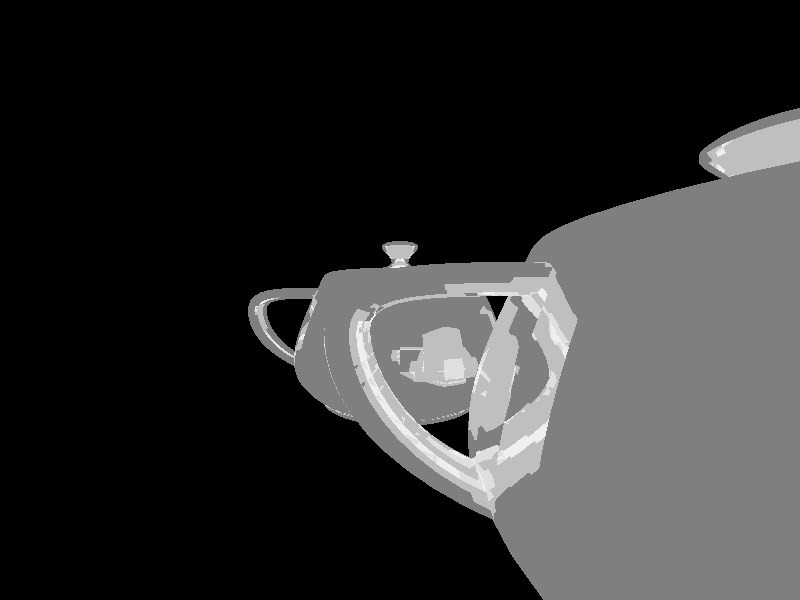
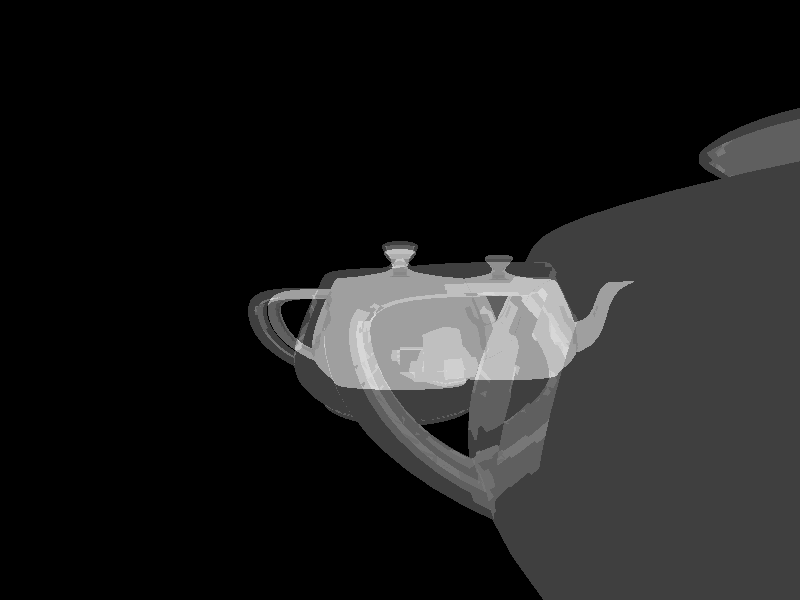
please run this

diff --git a/RayTracerReflectionsMultiTeapot.java b/RayTracerReflectionsMultiTeapot.java
@@ -256,15 +256,15 @@ class RenderTask implements Runnable {
                 screenX *= aspectRatio;
 
                 Vector3 rayDirection = new Vector3(screenX, screenY, -1).normalize();
-                // Vector3 ray2Direction = going the opposite direction as the first ray?
+                Vector3 ray2Direction = new Vector3(screenX, screenY, 5).normalize();
                 Ray ray = new Ray(camera.position, rayDirection);
-                // Ray ray2 = new Ray with position the same as the camera position but with some negative z, and ray2Direction as direction?
+                Ray ray2 = new Ray(camera.position.subtract(new Vector3(0,0,40)), ray2Direction);
 
                 Color color = traceRay(ray, scene, 0); // Recursion depth
-                // Color color2 = trace shadow ray... new method or maybe we use the same method but use the color differently?
+                Color color2 = traceShadowRay(ray2, scene, 0);
                 synchronized (image) {
-                    image.setRGB(x, y, color.getRGB());
-                    // we have to change the color.getRGB above to something that takes input from both normal and shadow ray
+                    int avgBlue = color.getBlue() / 2 + color2.getBlue() / 2;
+                    image.setRGB(x, y, new Color(avgBlue, avgBlue, avgBlue).getRGB());
                 }
             }
         }
@@ -298,6 +298,40 @@ class RenderTask implements Runnable {
             int b = (int) (0.5 * reflectedColor.getBlue() + 0.5 * 255);
 
             return new Color(Math.min(r, 255), Math.min(g, 255), Math.min(b, 255));
+        }
+        else
+        {
+            return new Color(0, 0, 0); // background color
+        }
+    }
+
+    private static Color traceShadowRay(Ray ray, Scene scene, int depth) {
+        if (depth > MAX_REFLECTION_DEPTH) {
+            return new Color(0, 0, 0); // return black for maximum recursion depth
+        }
+
+        Intersection closestIntersection = null;
+        for (Face face : scene.faces) {
+            Vector3 v0 = scene.vertices.get(face.vertices[0]);
+            Vector3 v1 = scene.vertices.get(face.vertices[1]);
+            Vector3 v2 = scene.vertices.get(face.vertices[2]);
+
+            Intersection intersection = RayTracer.intersectRayTriangle(ray, v0, v1, v2);
+            if (intersection.hit && (closestIntersection == null || intersection.distance < closestIntersection.distance)) {
+                closestIntersection = intersection;
+            }
+        }
+
+        if (closestIntersection != null) {
+            Vector3 reflectedDirection = reflect(ray.direction, closestIntersection.normal).normalize();
+            Ray reflectedRay = new Ray(closestIntersection.point, reflectedDirection);
+            Color reflectedColor = traceRay(reflectedRay, scene, depth + 1);
+
+            int r = (int) (0.5 * reflectedColor.getRed() + 0.5 * 255);
+            int g = (int) (0.5 * reflectedColor.getGreen() + 0.5 * 255);
+            int b = (int) (0.5 * reflectedColor.getBlue() + 0.5 * 255);
+
+            return new Color(Math.min(r, 255) / 2, 255 - Math.min(g, 255) / 2, 255 - Math.min(b, 255) / 2);
         }
         else
         {
